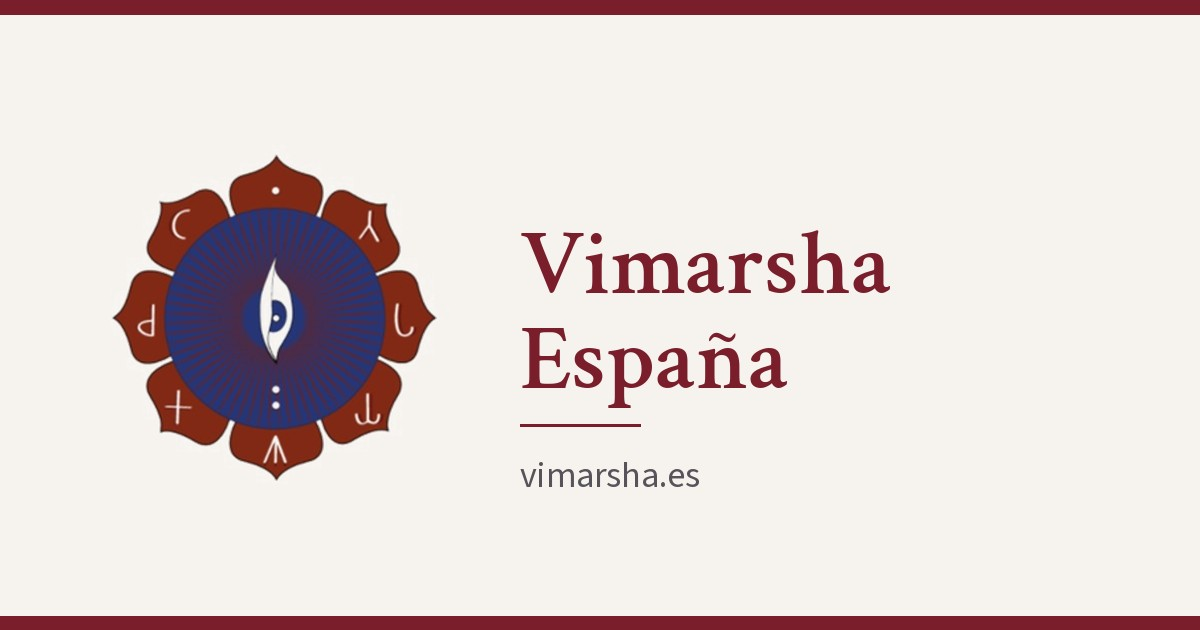
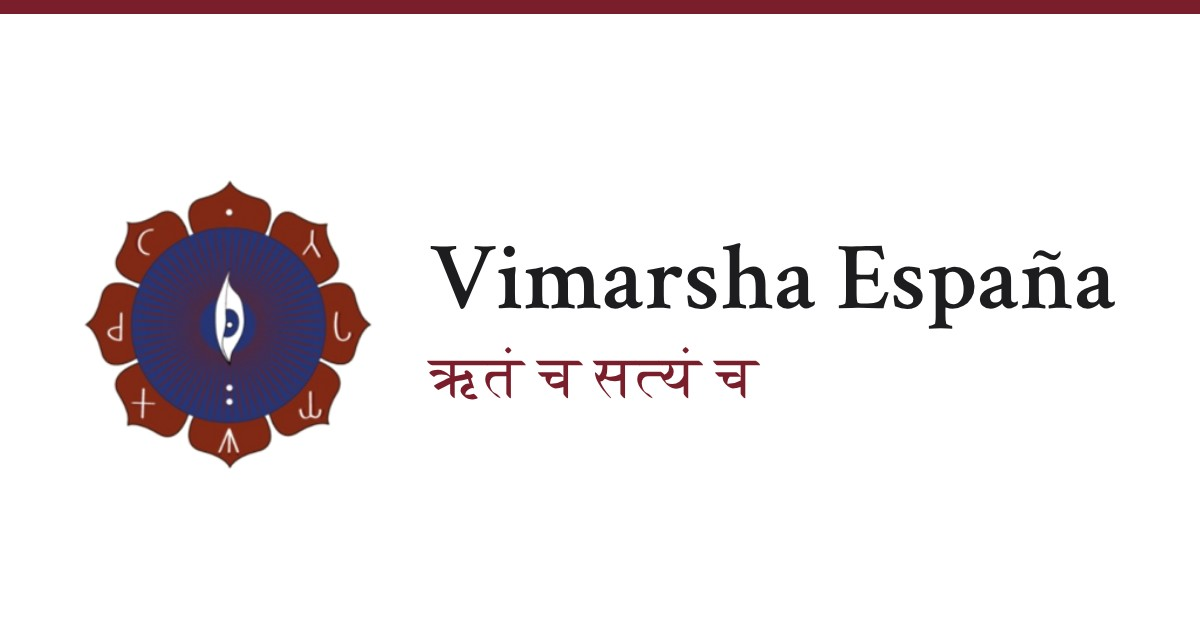
Link preview image: replicate site header with Devanagari motto
Claude-Session: https://claude.ai/code/session_01EWVhVRtzF71qksP8NJKbWn

Changed region(s): [[0.0617, 0.2413, 0.925, 0.754], [0.0, 0.9651, 1.0, 1.0], [0.4317, 0.7238, 0.5858, 0.7841]]

diff --git a/index.html b/index.html
@@ -9,7 +9,7 @@
 <meta property="og:title" content="Vimarsha España">
 <meta property="og:description" content="Vimarsha Madrid, grupo de estudio y práctica de la tradición Śaiva-Śākta (Trika, shivaísmo de Cachemira y tantra Kaula) en el linaje Sarvāmnāya, con Ācārya Sthaneshwar Timalsina. En Madrid y en línea.">
 <meta property="og:url" content="https://vimarsha.es/">
-<meta property="og:image" content="https://vimarsha.es/blog/img/og-vimarsha.jpg?v=1">
+<meta property="og:image" content="https://vimarsha.es/blog/img/og-vimarsha.jpg?v=2">
 <meta property="og:image:width" content="1200">
 <meta property="og:image:height" content="630">
 <meta property="og:image:alt" content="Logotipo de Vimarsha España">

diff --git a/en/index.html b/en/index.html
@@ -9,7 +9,7 @@
 <meta property="og:title" content="Vimarsha España">
 <meta property="og:description" content="Vimarsha Madrid, a study and practice group in the Śaiva-Śākta tradition (Trika, Kashmir Shaivism and Kaula Tantra) of the Sarvāmnāya lineage, with Ācārya Sthaneshwar Timalsina. In Madrid and online.">
 <meta property="og:url" content="https://vimarsha.es/en/">
-<meta property="og:image" content="https://vimarsha.es/blog/img/og-vimarsha.jpg?v=1">
+<meta property="og:image" content="https://vimarsha.es/blog/img/og-vimarsha.jpg?v=2">
 <meta property="og:image:width" content="1200">
 <meta property="og:image:height" content="630">
 <meta property="og:image:alt" content="Vimarsha España logo">
